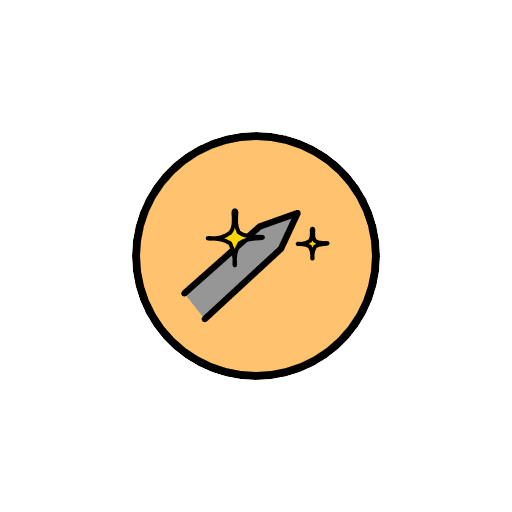
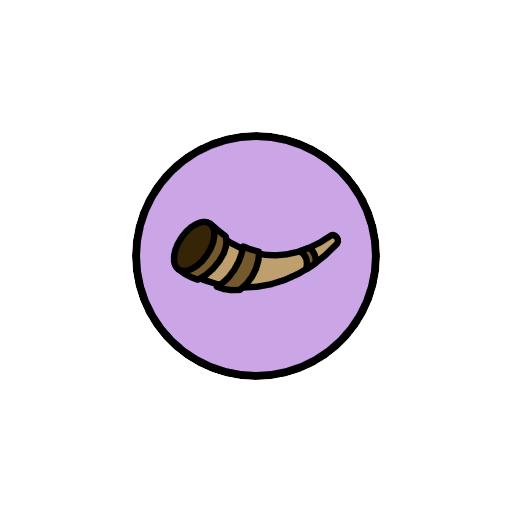
Upgrades screen: Reset beside Done with Confirm?, cream-edged buttons and counter star, map stars in the panel, Bought in Buy's place, no rung count; Honed Blades and Call to Arms swapped
Claude-Session: https://claude.ai/code/session_014Bn9hwRLZaL4vrSHCa3UBG

Changed region(s): [[0.25, 0.25, 0.75, 0.75]]

diff --git a/src/render.js b/src/render.js
@@ -6187,7 +6187,7 @@ function drawUpgradesButton(ctx) {
 // One five-pointed star, filled, with a dark edge. `fill` may be 'map' for the world
 // map's own earned star — its gold gradient and its ink outline, see drawStars in
 // src/overview.js — so a star beside the hammer is the same star the map awards.
-function starShape(ctx, cx, cy, r, fill) {
+function starShape(ctx, cx, cy, r, fill, edge = '#2A1D0E') {
   ctx.save();
   ctx.beginPath();
   for (let p = 0; p < 10; p++) {
@@ -6204,8 +6204,8 @@ function starShape(ctx, cx, cy, r, fill) {
     g.addColorStop(1, '#BE8C2A');
     ctx.fillStyle = g;
     ctx.fill();
-    ctx.lineWidth = 1.2;
-    ctx.strokeStyle = '#2A1D0E';
+    ctx.lineWidth = Math.max(1.2, r * 0.14);
+    ctx.strokeStyle = edge;
   } else {
     ctx.fillStyle = fill;
     ctx.fill();
@@ -6287,7 +6287,9 @@ function drawUpgrades(ctx, state) {
   ctx.beginPath();
   ctx.roundRect(px0, st.y, plateW, st.h, 10);
   ctx.fill();
-  starShape(ctx, px0 + STAR_PAD + STAR_R, st.y + st.h / 2, STAR_R, '#F2C64B');
+  // The map's gold star, EDGED IN CREAM rather than ink, at the owner's word: on
+  // the dark plate an ink edge disappears.
+  starShape(ctx, px0 + STAR_PAD + STAR_R, st.y + st.h / 2, STAR_R, 'map', UI_INK);
   ctx.fillStyle = '#F0E6D2';
   ctx.textAlign = 'left';
   ctx.fillText(count, px0 + STAR_PAD + STAR_R * 2 + STAR_GAP, st.y + st.h / 2 + 1);
@@ -6392,10 +6394,12 @@ function drawUpgrades(ctx, state) {
 
   drawUpgradePanel(ctx, state);
 
-  // RESET AND DONE along the foot. Reset asks twice — see tapUpgrades.
+  // RESET AND DONE side by side at the bottom right. Reset asks twice — see
+  // tapUpgrades — and says "Confirm?" while it waits. The screen's dark buttons
+  // are edged in cream, at the owner's word.
   const armed = state.upArmed && Date.now() < state.upArmed;
-  bookButton(ctx, UP_RESET, armed ? 'Tap again' : 'Reset', 0, `20px ${MAP_TYPE}`);
-  bookButton(ctx, UP_DONE, 'Done', 0, `20px ${MAP_TYPE}`);
+  bookButton(ctx, UP_RESET, armed ? 'Confirm?' : 'Reset', 0, `20px ${MAP_TYPE}`, UI_INK);
+  bookButton(ctx, UP_DONE, 'Done', 0, `20px ${MAP_TYPE}`, UI_INK);
 
   ctx.textAlign = 'left';
   ctx.textBaseline = 'middle';
@@ -6434,10 +6438,10 @@ function drawUpgradePanel(ctx, state) {
   ctx.fillText(u.name, cx, p.y + 34);
   ctx.fillStyle = INK_MUTED;
   ctx.font = `15px ${MAP_TYPE}`;
-  ctx.fillText(`${UP_FAMILY_NAME[fam]} · upgrade ${i + 1} of ${UPGRADES[fam].length}`, cx, p.y + 58);
+  ctx.fillText(UP_FAMILY_NAME[fam], cx, p.y + 58);
 
   // The price, a star and a number.
-  starShape(ctx, cx - 12, p.y + 86, 10, '#F2C64B');
+  starShape(ctx, cx - 12, p.y + 86, 10, 'map');
   ctx.fillStyle = INK;
   ctx.font = `21px ${MAP_TYPE}`;
   ctx.textAlign = 'left';
@@ -6451,7 +6455,14 @@ function drawUpgradePanel(ctx, state) {
   lines.forEach((line, k) => ctx.fillText(line, cx, p.y + 124 + k * 23));
 
   // Where it stands, over the button.
-  const note = st8 === 'bought' ? ['Bought', INK_GREEN]
+  // BOUGHT SITS WHERE BUY DID, the same size, at the owner's word — the button
+  // becomes the word.
+  if (st8 === 'bought') {
+    ctx.fillStyle = INK_GREEN;
+    ctx.font = `23px ${MAP_TYPE}`;
+    ctx.fillText('Bought', cx, UP_BUY.y + UP_BUY.h / 2 + 1);
+  }
+  const note = st8 === 'bought' ? null
     : st8 === 'locked' ? ['Buy the upgrade below it first.', INK_MUTED]
     : canBuy(fam, i) ? null
     : ['Not enough stars.', INK_RED];
@@ -6466,7 +6477,7 @@ function drawUpgradePanel(ctx, state) {
   if (st8 === 'next') {
     ctx.save();
     ctx.globalAlpha = canBuy(fam, i) ? 1 : 0.4;
-    bookButton(ctx, UP_BUY, 'Buy', 0, `23px ${MAP_TYPE}`);
+    bookButton(ctx, UP_BUY, 'Buy', 0, `23px ${MAP_TYPE}`, UI_INK);
     ctx.restore();
   }
 }
@@ -7249,12 +7260,12 @@ function drawBookFooter(ctx, state) {
 // they still read as the same kind of control.
 // `font`, where given, replaces the system type — the Upgrades screen's buttons are
 // set in Lobster, like the rest of what the world map opens.
-function bookButton(ctx, b, label, size, font = null) {
+function bookButton(ctx, b, label, size, font = null, edge = SHEET_EDGE) {
   ctx.fillStyle = 'rgba(40,36,28,0.88)';
   ctx.beginPath();
   ctx.roundRect(b.x, b.y, b.w, b.h, 8);
   ctx.fill();
-  ctx.strokeStyle = SHEET_EDGE;
+  ctx.strokeStyle = edge;
   ctx.lineWidth = 1.5;
   ctx.stroke();
 

diff --git a/src/data/upgrades.js b/src/data/upgrades.js
@@ -37,11 +37,12 @@ export const UPGRADES = {
   ],
   barracks: [
     { name: 'Hardy Recruits', text: 'Increase health of barracks units by 5%.', hpTimes: 1.05 },
-    // CALL TO ARMS, and it was Quick Muster: renamed to match the artist's war horn.
-    { name: 'Call to Arms', text: 'Reduce respawn time of barracks units by 2 seconds.', respawnLess: 2 },
+    // SECOND, AND IT WAS THIRD: swapped with Call to Arms at the owner's word.
     // 10%, AND IT WAS +1: the owner changed it. On a Militia Camp's 3 that is 3.3,
     // a little under the old 4; on an Assassin Guild's 15 it is 16.5, a little over.
     { name: 'Honed Blades', text: 'Increase base attack damage of barracks units by 10%.', blowTimes: 1.10 },
+    // CALL TO ARMS, and it was Quick Muster: renamed to match the artist's war horn.
+    { name: 'Call to Arms', text: 'Reduce respawn time of barracks units by 2 seconds.', respawnLess: 2 },
     { name: 'Last Stand', text: 'Grants a 10% chance that a unit survives a killing blow with 1 health left.',
       deathSave: 0.10 }
   ],

diff --git a/src/upgradepage.js b/src/upgradepage.js
@@ -55,8 +55,10 @@ export const upFamily = col => ({ cx: COL_X + col * COL_W + COL_W / 2, cy: BOTTO
 
 export const UP_PANEL = { x: 600, y: 84, w: 330, h: 340 };
 export const UP_BUY = { x: UP_PANEL.x + 45, y: UP_PANEL.y + UP_PANEL.h - 66, w: UP_PANEL.w - 90, h: 44 };
-export const UP_RESET = { x: 40, y: 484, w: 130, h: 38 };
+// RESET BESIDE DONE at the bottom right, at the owner's word, and it was at the
+// bottom left. 20px of drawn gap keeps their padded tap boxes apart.
 export const UP_DONE = { x: 790, y: 484, w: 130, h: 38 };
+export const UP_RESET = { x: UP_DONE.x - 20 - 130, y: 484, w: 130, h: 38 };
 
 // How long a half-pressed Reset waits for its second press, in ms.
 export const RESET_WINDOW = 3000;

diff --git a/assets/upgrades/README.md b/assets/upgrades/README.md
@@ -21,8 +21,8 @@ its own, drawn at the foot of its ladder.
 | `Upgrade_Archery_4_Icon.png` | Sharpshooter: 10% chance of +50% damage |
 | `Upgrade_Barracks_Icon.png` | the Barracks ladder's own button, at its foot |
 | `Upgrade_Barracks_1_Icon.png` | Hardy Recruits: health +5% |
-| `Upgrade_Barracks_2_Icon.png` | Call to Arms: respawn 2s sooner |
-| `Upgrade_Barracks_3_Icon.png` | Honed Blades: damage +10% |
+| `Upgrade_Barracks_2_Icon.png` | Honed Blades: damage +10% |
+| `Upgrade_Barracks_3_Icon.png` | Call to Arms: respawn 2s sooner |
 | `Upgrade_Barracks_4_Icon.png` | Last Stand: 10% chance to survive on 1 health |
 | `Upgrade_Artillery_Icon.png` | the Artillery ladder's own button, at its foot |
 | `Upgrade_Artillery_1_Icon.png` | Spotter's Glass: range +5% |
